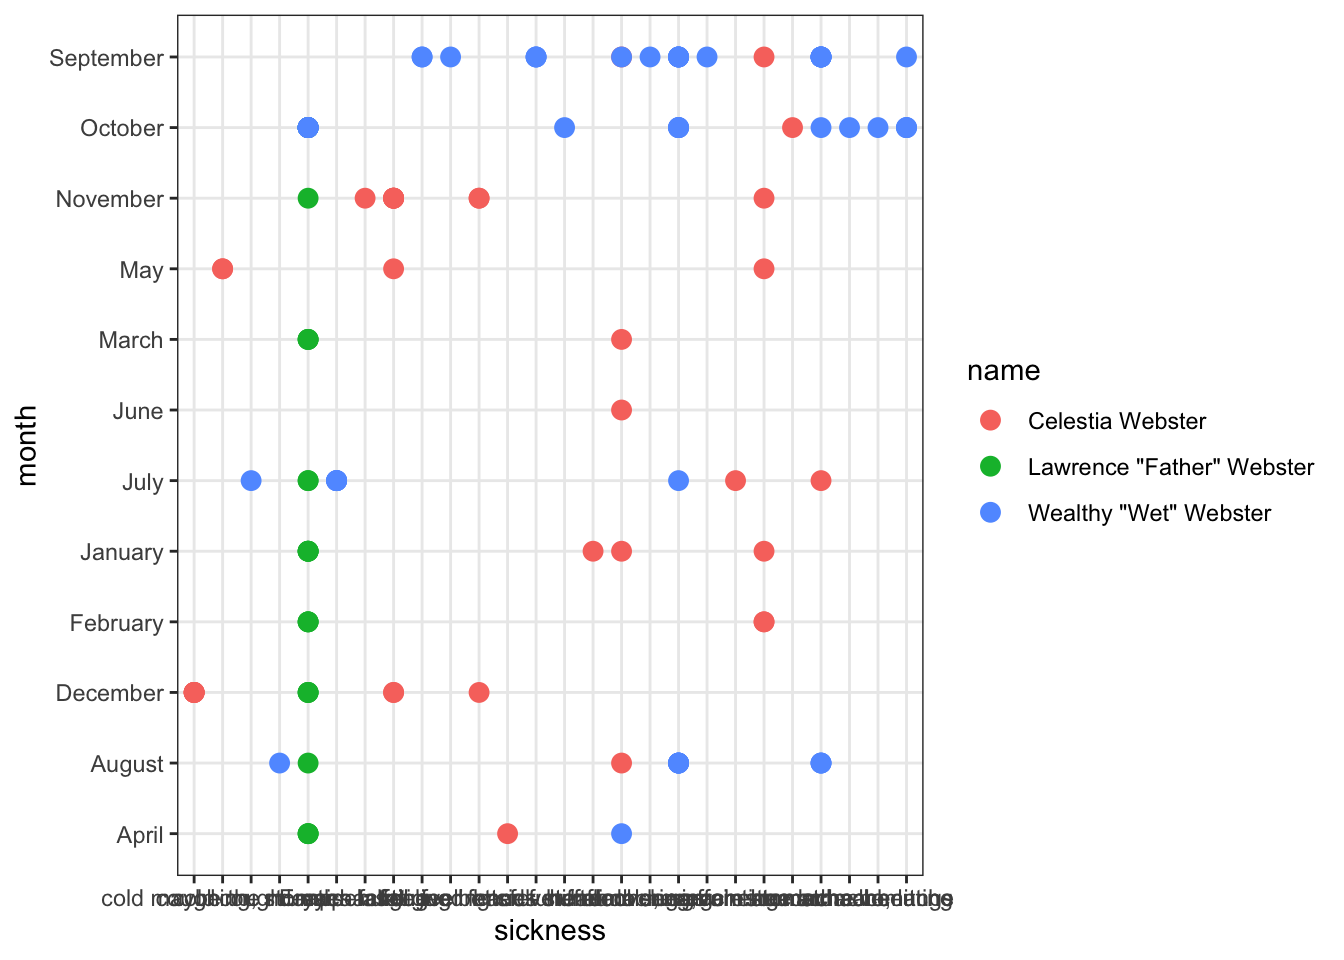
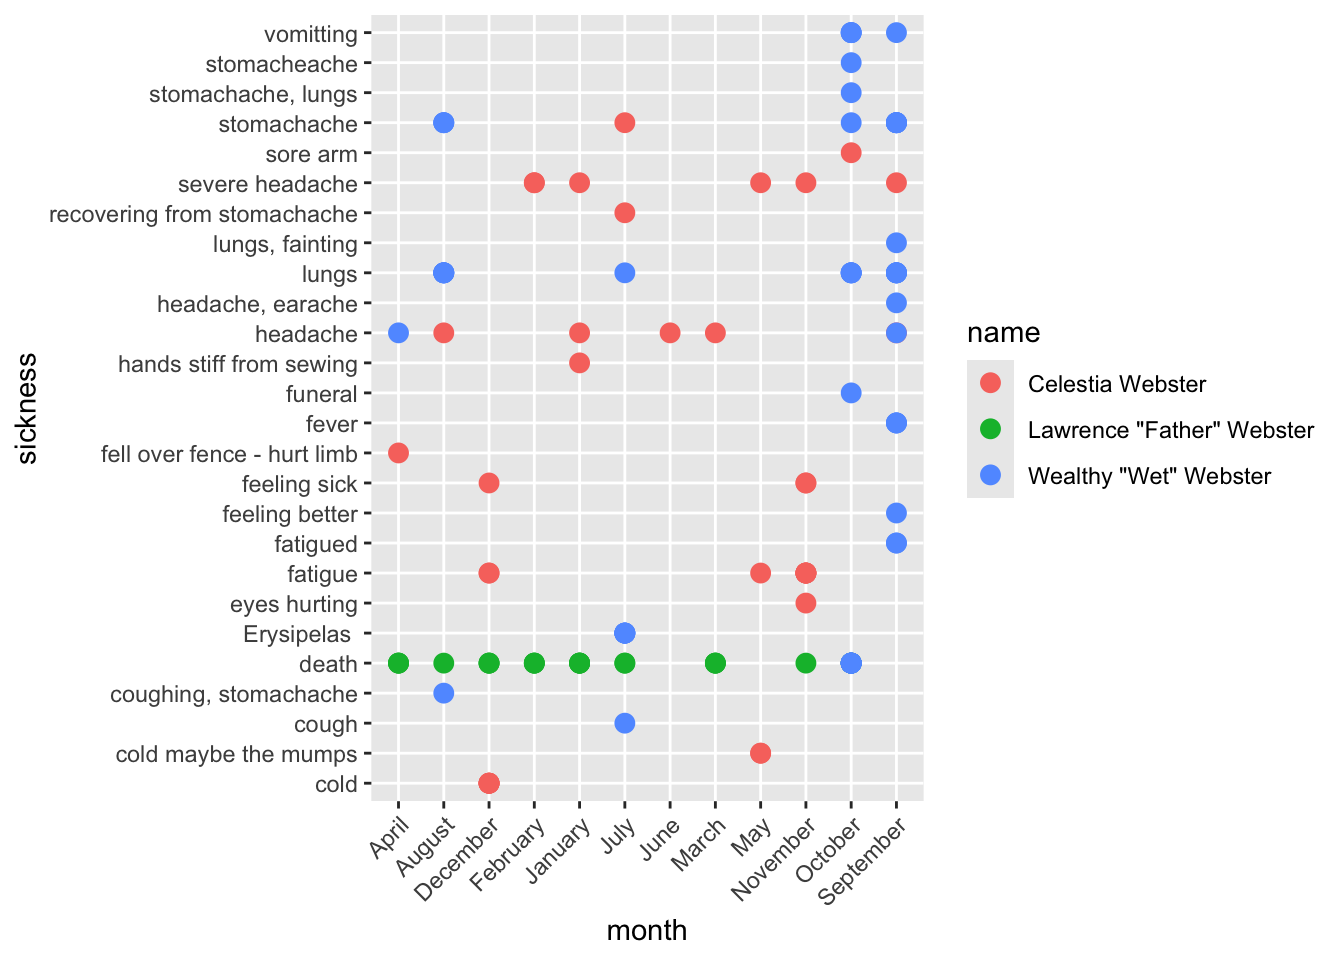
Built site for gh-pages

diff --git a/Webster_Fam.html b/Webster_Fam.html
@@ -144,6 +144,8 @@ ul.task-list li input[type="checkbox"] {
    
   <ul>
   <li><a href="#sickness-in-the-webster-family" id="toc-sickness-in-the-webster-family" class="nav-link active" data-scroll-target="#sickness-in-the-webster-family">Sickness in the Webster Family</a></li>
+  <li><a href="#comparing-webster-family-illness" id="toc-comparing-webster-family-illness" class="nav-link" data-scroll-target="#comparing-webster-family-illness">Comparing Webster Family Illness</a></li>
+  <li><a href="#comparing-celestia-and-wealthys-sickness" id="toc-comparing-celestia-and-wealthys-sickness" class="nav-link" data-scroll-target="#comparing-celestia-and-wealthys-sickness">Comparing Celestia and Wealthy’s Sickness</a></li>
   </ul>
 </nav>
     </div>
@@ -171,12 +173,16 @@ ul.task-list li input[type="checkbox"] {
 
 <p><em>“How wise and good in God to grant us friends, he has bound us together by the ties of blood that can never be sundered We should be ever trying to do each other good to help each other on in our journey to the kingdom”</em></p>
 <p><strong>Celestia Webster’s Diary - March 31, 1866</strong></p>
+<p>Lorem ipsum</p>
 <section id="sickness-in-the-webster-family" class="level3">
 <h3 class="anchored" data-anchor-id="sickness-in-the-webster-family">Sickness in the Webster Family</h3>
+<p>Lorem ipsum</p>
+</section>
+<section id="comparing-webster-family-illness" class="level2">
+<h2 class="anchored" data-anchor-id="comparing-webster-family-illness">Comparing Webster Family Illness</h2>
 <p><em>“My heart is sad at the remembrance, that for the third time our family circle was broken four months ago today, then the head of our family our noble Christian father was torn from our embrace by the rude hand of Death My life seems to be a blank since then. I am so disconsolate and do not know what to set myself about.”</em></p>
 <p><strong>Celestia Webster’s Diary - April 1, 1866</strong></p>
-<p><em>“Early this forenoon it rained some and has looked as though it was preparing for a heavy rain. Carrie and I sat up with Wet last night. Sue was up the most of the time too I sat on the edge of the bed fanning her and holding her hand occasionally rubbing her stomach when I was not waiting on her as she was vomiting from ten o’clock till four. She says to me I want you to stay with me as much as you can. She thinks we will not have her with us long. In the midst of her severe pain she exclaimed several times “bless the Lord” that it was no worse.”</em></p>
-<p><strong>Celestia Webster’s Diary -October 10, 1866</strong></p>
+<p>The graph below examines the number of times Celestia mentions her own sickness, her father’s death, and her sister, Wealthy Webster’s sickness and death. The chart reveals the similarities and differences between symptoms, diary mentions, and time of the year.</p>
 <div class="cell">
 <div class="cell-output cell-output-stdout">
 <pre><code>[1] "familysickness |&gt;\n  ggplot(aes(x = name, y = time, fill = time))+\n  geom_col(fill = 'blue')"</code></pre>
@@ -189,7 +195,21 @@ ul.task-list li input[type="checkbox"] {
 </div>
 </div>
 </div>
-<p>make a line graph</p>
+</section>
+<section id="comparing-celestia-and-wealthys-sickness" class="level2">
+<h2 class="anchored" data-anchor-id="comparing-celestia-and-wealthys-sickness">Comparing Celestia and Wealthy’s Sickness</h2>
+<p><em>“Early this forenoon it rained some and has looked as though it was preparing for a heavy rain. Carrie and I sat up with Wet last night. Sue was up the most of the time too I sat on the edge of the bed fanning her and holding her hand occasionally rubbing her stomach when I was not waiting on her as she was vomiting from ten o’clock till four. She says to me I want you to stay with me as much as you can. She thinks we will not have her with us long. In the midst of her severe pain she exclaimed several times “bless the Lord” that it was no worse.”</em></p>
+<p><strong>Celestia Webster’s Diary -October 10, 1866</strong></p>
+<p>The graph below compares the symptoms and trajectory of Celestia and her sister, Wealthy’s respective illnesses. Wealthy develops tuberculosis in June 1866 and eventually dies on October 11, 1866. A few months later, in February 1867, Celestia falls ill from tuberculosis, recovers, but never returns to full health. She shows similar symptoms to Wealthy and the patterns of her sickness and treatment also resemble her sister.</p>
+<div class="cell">
+<div class="cell-output-display">
+<div>
+<figure class="figure">
+<p><img src="Webster_Fam_files/figure-html/unnamed-chunk-2-1.png" class="img-fluid figure-img" width="672"></p>
+</figure>
+</div>
+</div>
+</div>
 
 
 </section>
